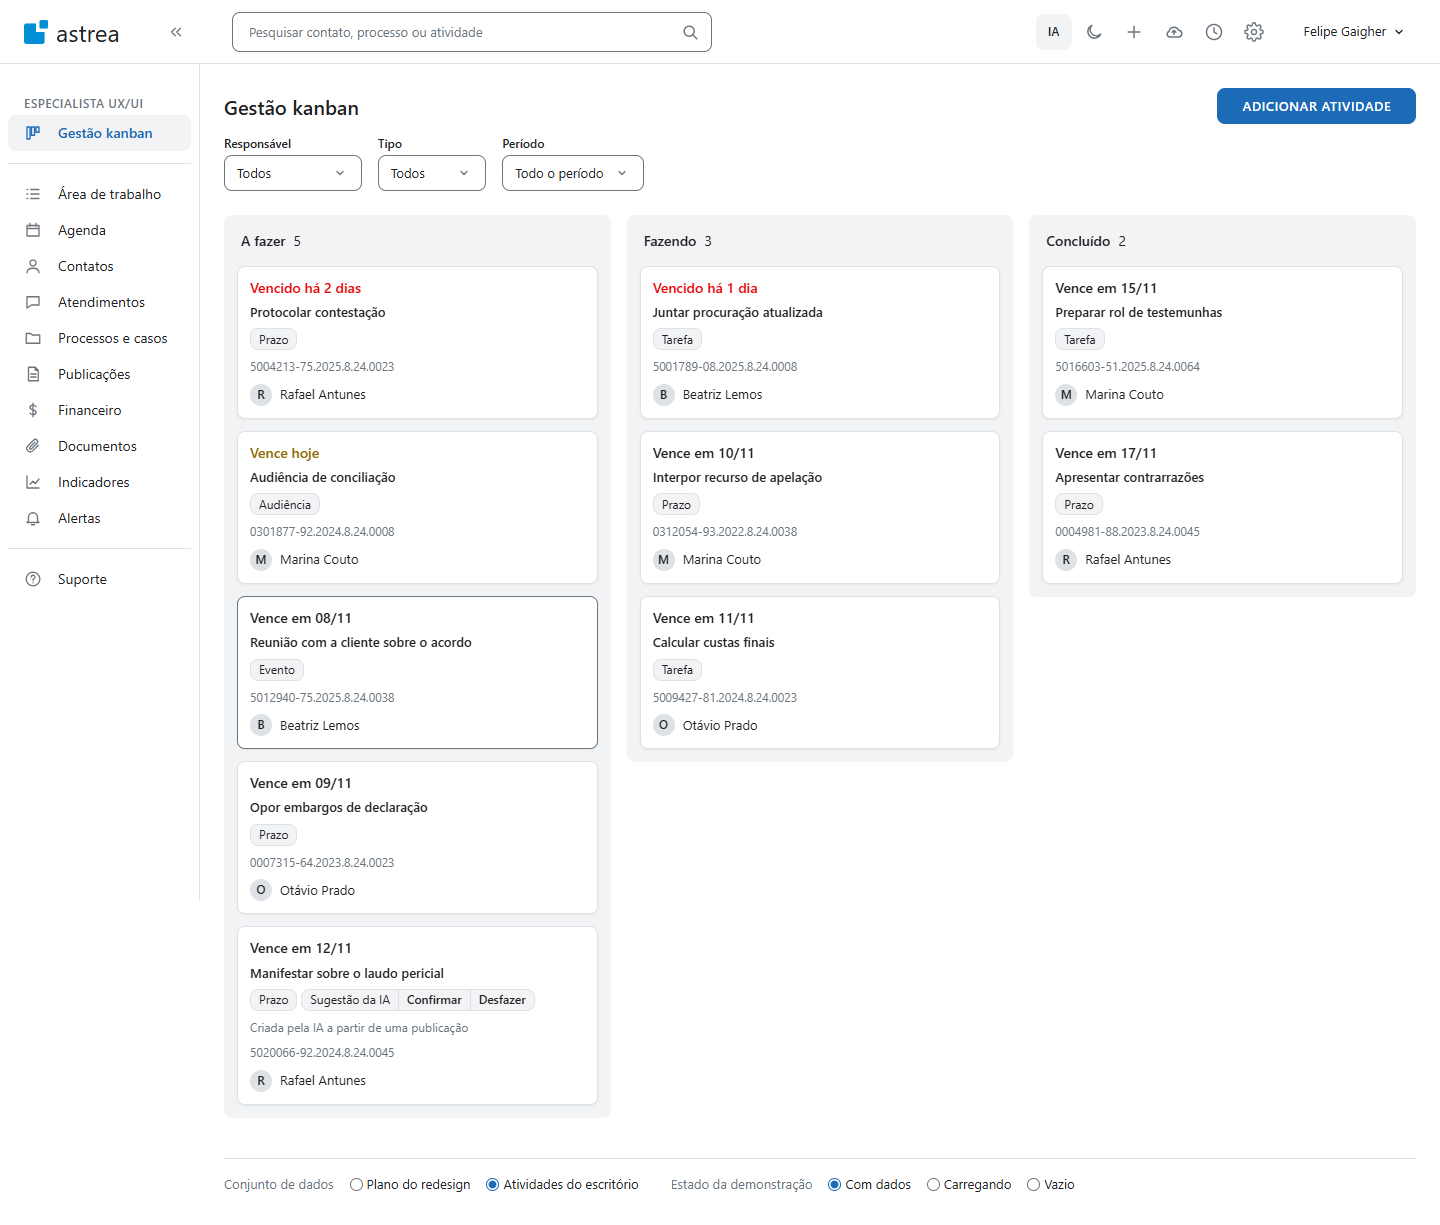
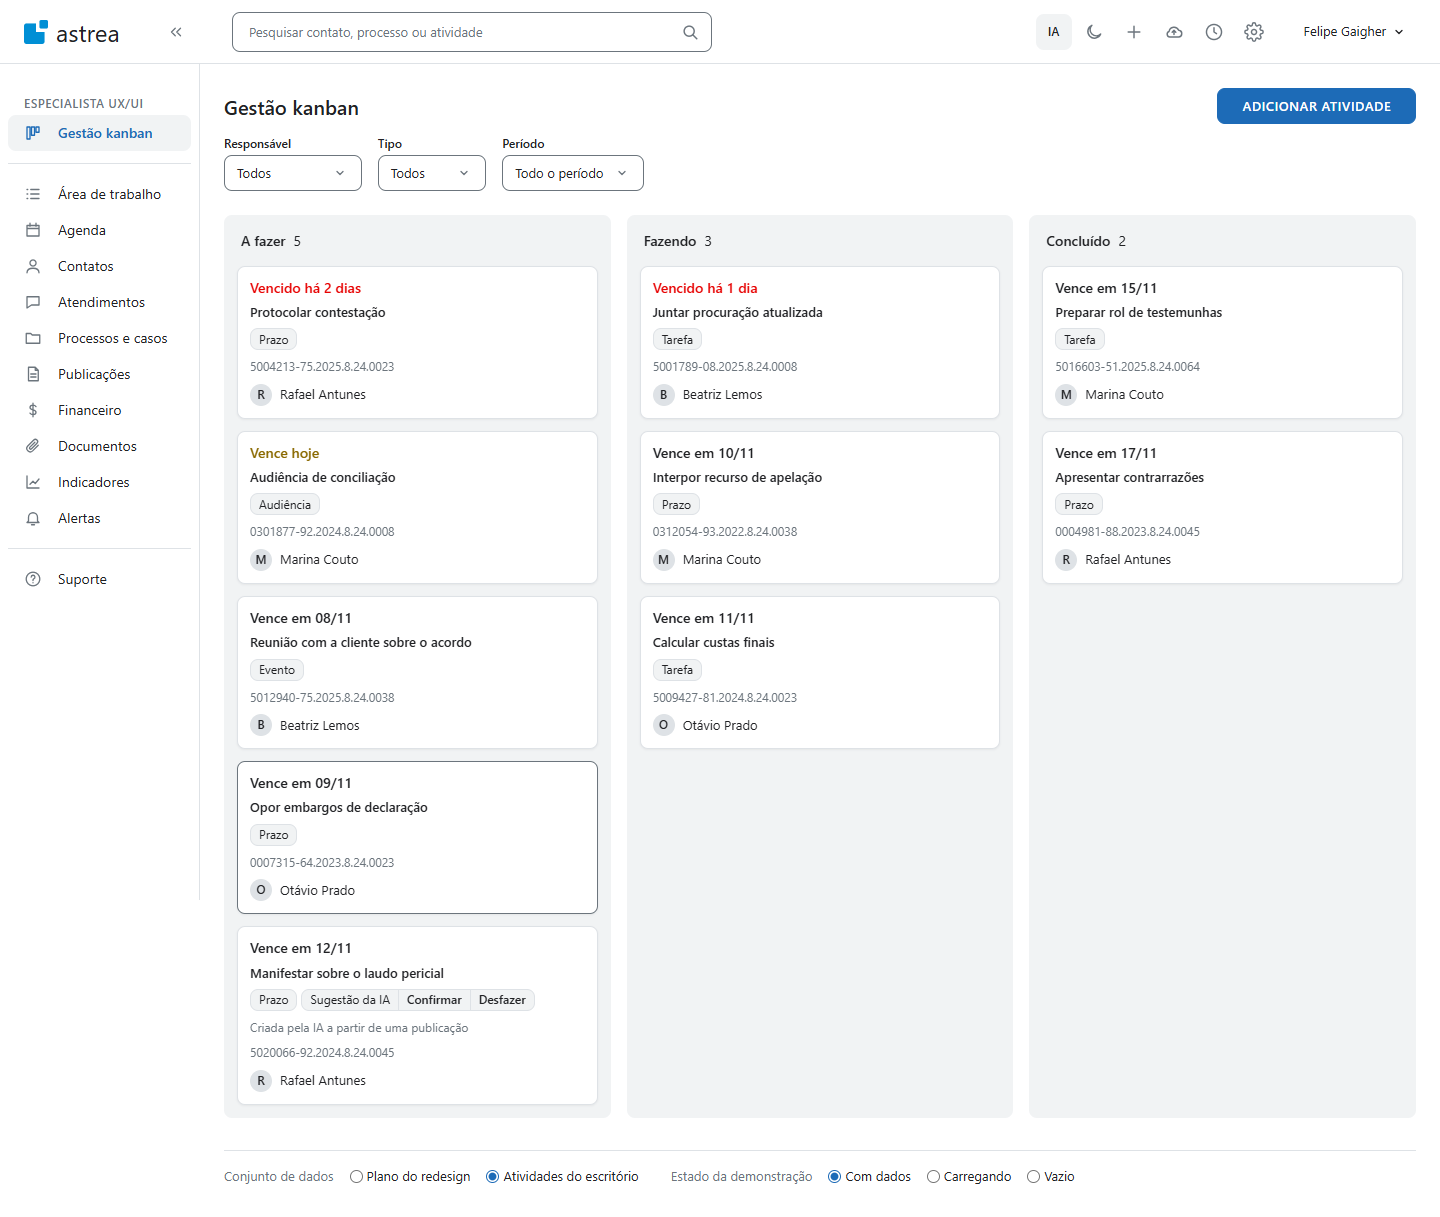
Q3: o quadro ocupa a altura que sobra, colunas até o rodapé
O conteúdo vira coluna flexível da altura da tela, o quadro cresce e as
colunas esticam juntas até o rodapé da demonstração. Pedido de Felipe em
07/11. Verificação: verificar.py -> 0; detectar.py -> 0; headless em
1920: colunas com 744px, todas iguais, rodapé dentro da janela, sem
rolagem; em 1024 idem; em 390 a página rola na vertical, como antes.

diff --git a/prototipo/kanban.html b/prototipo/kanban.html
@@ -519,8 +519,12 @@ body[data-menu="recolhido"] .recolher svg { transform: rotate(180deg); }
 body[data-menu="recolhido"] .logo span { position: absolute; width: 1px; height: 1px; overflow: hidden; clip: rect(0 0 0 0); }
 @media (prefers-reduced-motion: reduce) { .recolher, .logo, .recolher svg, .seletor svg { transition: none; } }
 
+/* O conteúdo é uma coluna da altura da tela: o quadro cresce até o rodapé, e as colunas esticam com ele. */
 #conteudo {
+  display: flex;
+  flex-direction: column;
   min-width: 0;
+  min-height: calc(100vh - var(--component-header-height));
   padding: var(--space-5) var(--space-5) var(--space-6);
 }
 
@@ -544,9 +548,10 @@ body[data-menu="recolhido"] .logo span { position: absolute; width: 1px; height:
    Posicionado para conter os textos ocultos absolutos dos cards. */
 #quadro {
   position: relative;
+  flex: 1;
   display: flex;
   gap: var(--space-4);
-  align-items: start;
+  align-items: stretch;
   overflow-x: auto;
   padding-bottom: var(--space-2);
   scroll-snap-type: x proximity;
@@ -1131,7 +1136,7 @@ body[data-menu="recolhido"] .logo span { position: absolute; width: 1px; height:
   display: flex;
   flex-wrap: wrap;
   gap: var(--space-4) var(--space-6);
-  margin-top: var(--space-6);
+  margin-top: var(--space-5);
   padding-top: var(--space-4);
   border-top: var(--border-width) solid var(--color-border-default);
 }
